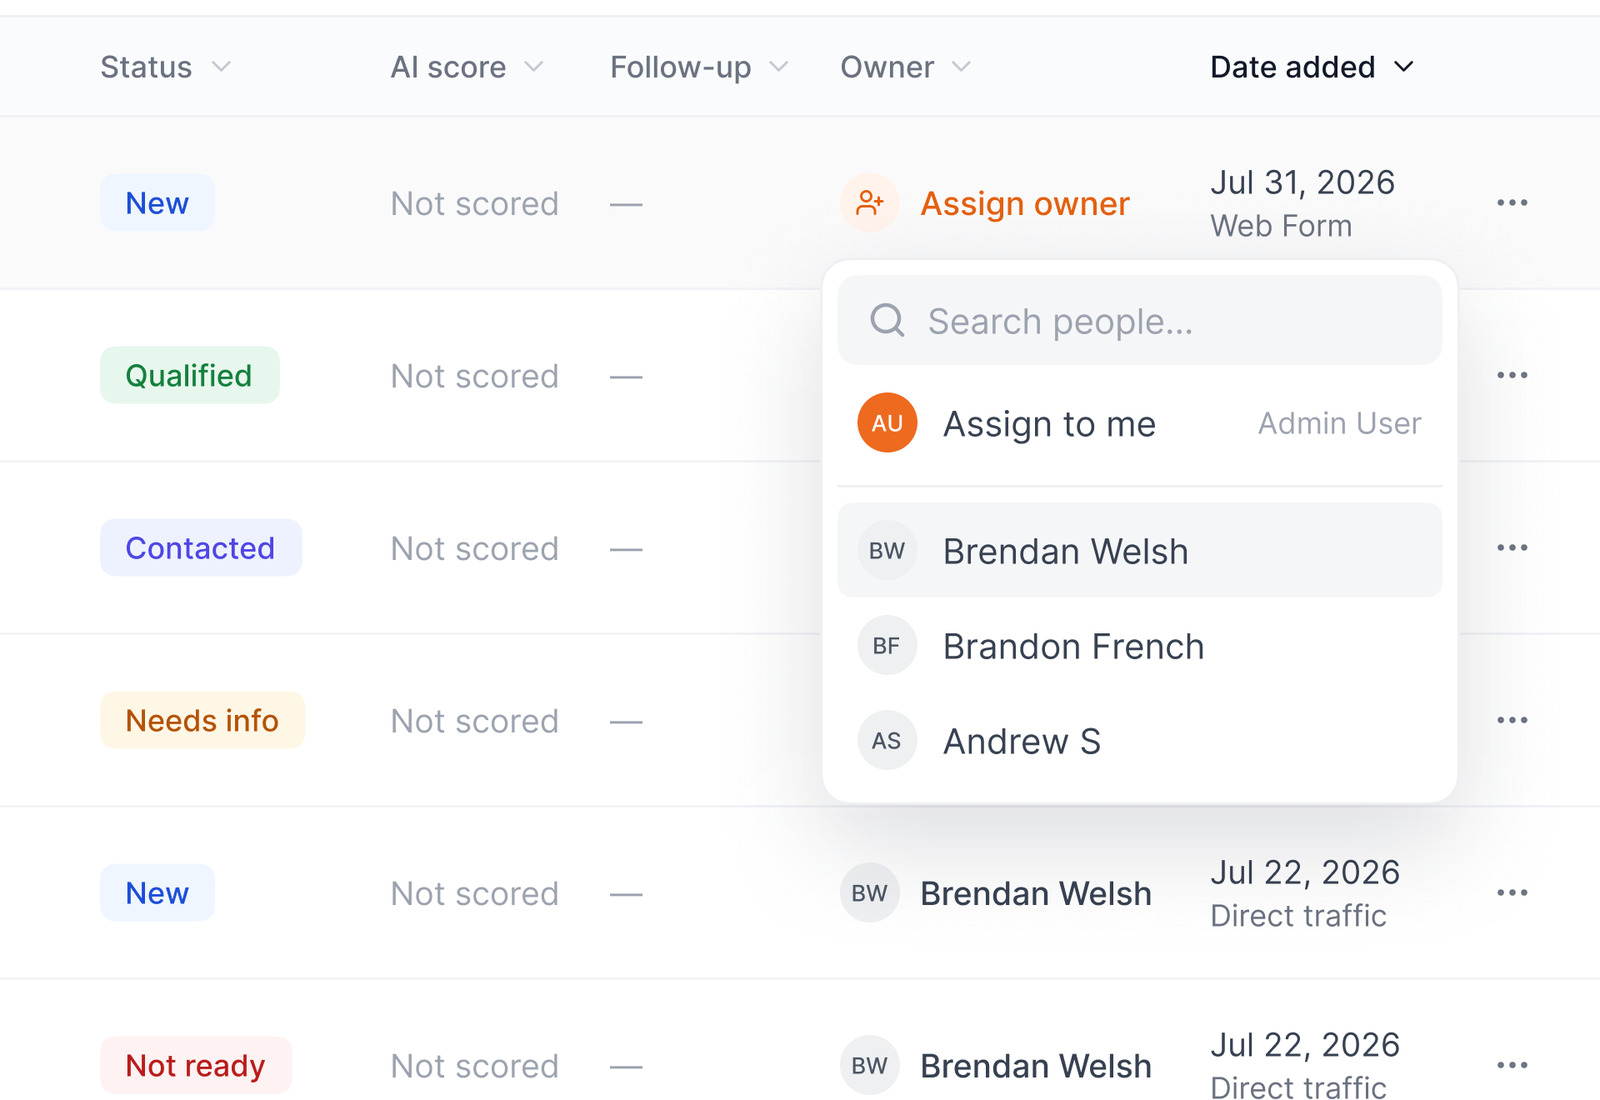
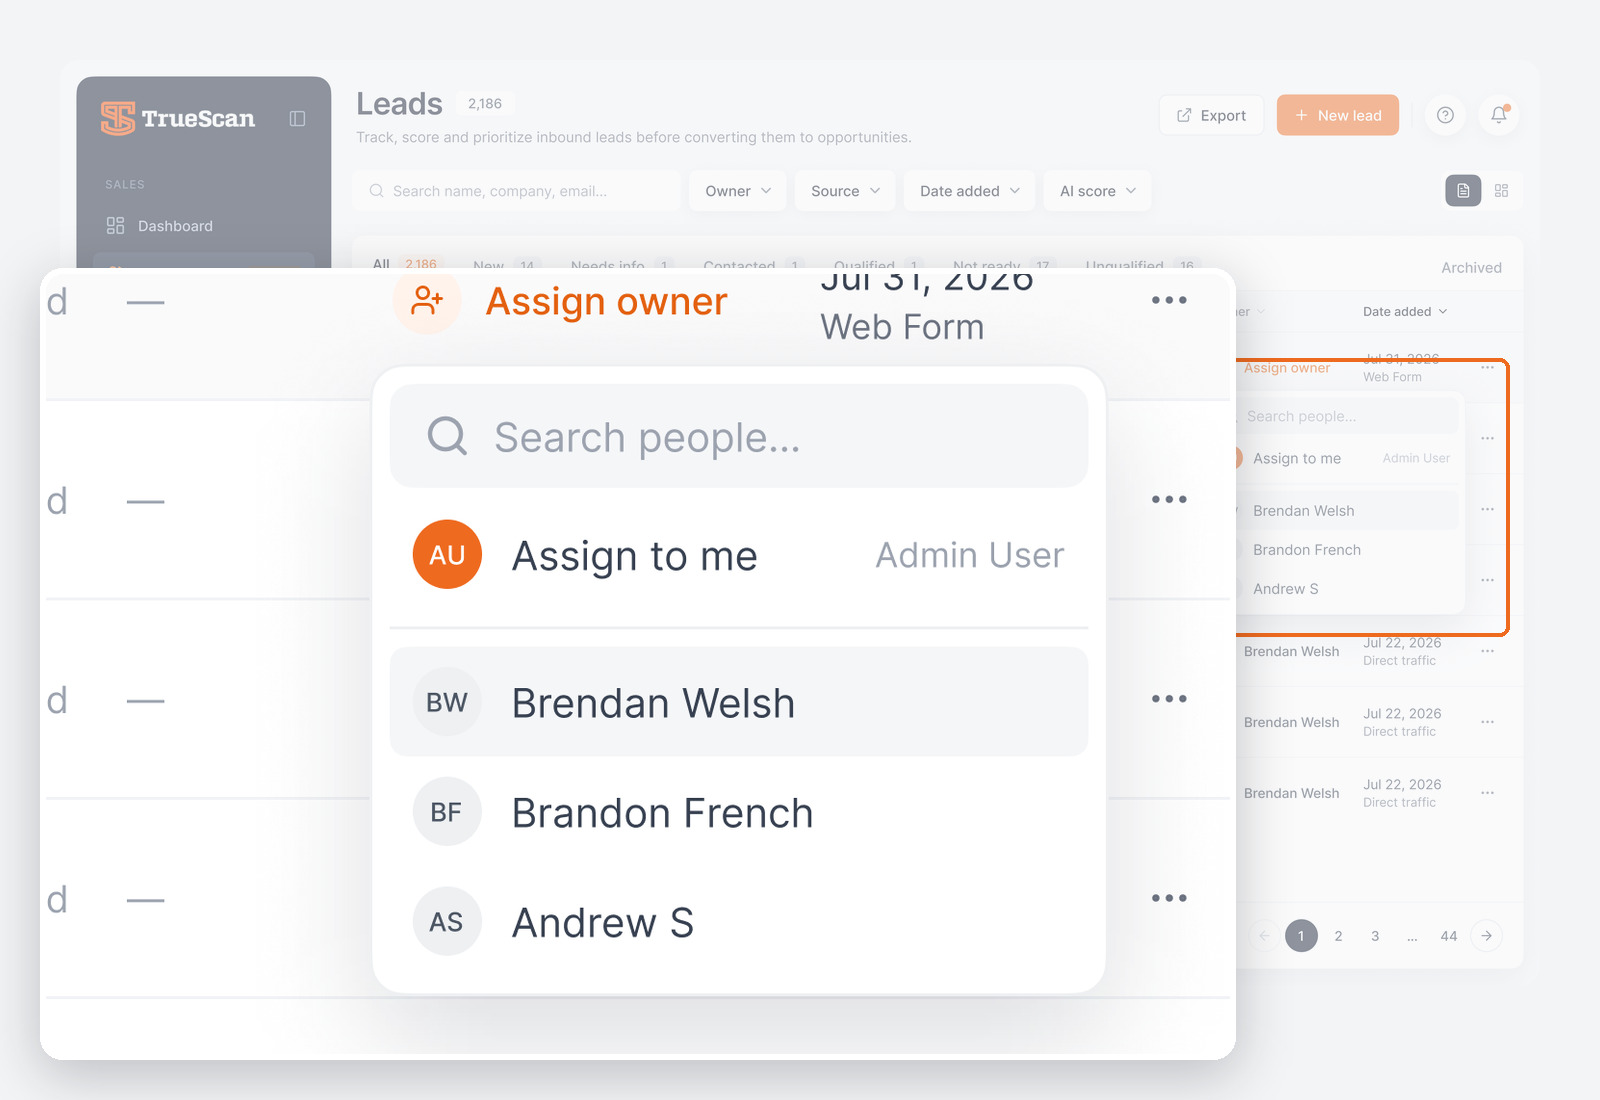
TrueScan: problems/details as text list + crisp isometric screen stacks; dark gradient on next-case cards
Claude-Session: https://claude.ai/code/session_019s9hMNDEcLkm54bZicL17g

diff --git a/cases/truescan.html b/cases/truescan.html
@@ -205,6 +205,11 @@ figure{margin:0}
 
 /* Five modules: больше воздуха, белая обводка, лёгкий тег */
 .mod{padding:28px clamp(28px,3.4vw,52px) 28px 28px!important;gap:clamp(32px,4vw,64px)!important}.mod:nth-child(even){padding:28px 28px 28px clamp(28px,3.4vw,52px)!important}.mod .media{box-shadow:0 0 0 4px #fff!important;border-radius:22px!important}.mtxt .ey{font-weight:500!important;font-size:14px!important;padding:6px 12px!important;border-radius:999px!important}.mtxt h3{font-weight:500!important}@media (max-width:900px){.mod,.mod:nth-child(even){padding:16px 16px 28px!important}}
+
+.isorow{display:grid;grid-template-columns:minmax(0,5fr) minmax(0,7fr);gap:clamp(24px,4vw,64px);align-items:center}.isolist{list-style:none;margin:0;padding:0;display:flex;flex-direction:column;gap:clamp(20px,2.2vw,30px)}.isolist li{padding-left:20px;border-left:2px solid #EE6A1F}.isolist h3{font-family:var(--font-display);font-weight:500;font-size:clamp(19px,1.6vw,22px);letter-spacing:-.015em;line-height:1.25}.isolist p{margin-top:6px;font-size:clamp(15px,1.1vw,16px);line-height:1.5;color:var(--ink-2)}.isovis{border-radius:28px;overflow:hidden;background:#F1F3F6}.isovis img{display:block;width:100%;height:auto}@media (max-width:900px){.isorow{grid-template-columns:1fr}.isovis{order:-1}}
+
+/* «следующий кейс»: тёмное затемнение снизу, светлый текст */
+.ncase .media::after{background:linear-gradient(to top,rgba(10,14,24,.82) 0%,rgba(10,14,24,.45) 30%,rgba(10,14,24,0) 60%)!important}.ncase .lbl small{color:rgba(255,255,255,.75)!important}.ncase .lbl b{color:#fff!important}
 </style>
 </head>
 <body>
@@ -292,12 +297,7 @@ figure{margin:0}
       <h2 class="h2 rv">Problems</h2>
       <p class="body rv">A scanning company sells, plans and bills complex field work. Every step had its own tool, or none.</p>
     </div>
-    <div class="pairs">
-      <div class="pair rv"><div class="media"><img src="../img/cases/truescan/problem-1-list.jpg?v=3" alt="Leads list with status tabs" loading="lazy"></div><div class="ptxt"><div><h3>Requests come from everywhere</h3><p>Web forms, direct traffic and each sales rep’s personal form. A lead needs an owner and a status fast, or it goes cold.</p></div></div></div>
-      <div class="pair rv"><div class="media"><img src="../img/cases/truescan/problem-2-proposal.jpg?v=3" alt="Proposal builder with 18 sections and service fees" loading="lazy"></div><div class="ptxt"><div><h3>Every deal needs a heavy proposal</h3><p>A reality-capture proposal has 18 sections: scope, services, team, equipment, terms and fees that depend on what is being scanned.</p></div></div></div>
-      <div class="pair rv"><div class="media"><img src="../img/cases/truescan/problem-3-project.jpg?v=3" alt="Project overview with site data, tasks and cost to date" loading="lazy"></div><div class="ptxt"><div><h3>Site work is scattered</h3><p>After a deal is won, the building data, the crew, the files and multi-gigabyte point clouds need one home.</p></div></div></div>
-      <div class="pair rv"><div class="media"><img src="../img/cases/truescan/problem-4-time.jpg?v=3" alt="Weekly timesheet with field scan entries" loading="lazy"></div><div class="ptxt"><div><h3>Costs live in a spreadsheet</h3><p>Field hours, per diem and mileage were logged in Google Sheets, so the real cost of a project was hard to see.</p></div></div></div>
-    </div>
+    <div class="isorow rv"><ul class="isolist"><li><h3>Requests come from everywhere</h3><p>Web forms, direct traffic and each sales rep’s personal form. A lead needs an owner and a status fast, or it goes cold.</p></li><li><h3>Every deal needs a heavy proposal</h3><p>A reality-capture proposal has 18 sections: scope, services, team, equipment, terms and fees that depend on what is being scanned.</p></li><li><h3>Site work is scattered</h3><p>After a deal is won, the building data, the crew, the files and multi-gigabyte point clouds need one home.</p></li><li><h3>Costs live in a spreadsheet</h3><p>Field hours, per diem and mileage were logged in Google Sheets, so the real cost of a project was hard to see.</p></li></ul><div class="isovis"><img src="../img/cases/truescan/problems-iso.jpg?v=3" alt="Isometric stack of TrueScan screens: leads list, proposal builder and weekly timesheet" loading="lazy"></div></div>
   </div>
 </section>
 
@@ -322,12 +322,7 @@ figure{margin:0}
       <h2 class="h2 rv">Details that matter</h2>
       <p class="body rv">Small decisions that save clicks every day: show consequences before they happen, apply small changes instantly, always leave a way back.</p>
     </div>
-    <div class="pairs">
-      <div class="pair rv"><div class="media"><img src="../img/cases/truescan/solution-1-convert.jpg?v=3" alt="Convert to opportunity confirmation with record preview" loading="lazy"></div><div class="ptxt"><div><h3>Preview before converting</h3><p>Conversion shows exactly what will be created — a new or existing account, a contact and an opportunity in Prospecting — with no fields to fill in.</p></div></div></div>
-      <div class="pair rv"><div class="media"><img src="../img/cases/truescan/solution-2-converted.jpg?v=3" alt="Opportunity profile with Converted from lead banner" loading="lazy"></div><div class="ptxt"><div><h3>Land on the result</h3><p>After conversion the user lands on the new opportunity, with a one-time “Converted from lead” banner and a link back to the lead.</p></div></div></div>
-      <div class="pair rv"><div class="media"><img src="../img/cases/truescan/solution-3-assign.jpg?v=3" alt="Assign owner popover with Assign to me" loading="lazy"></div><div class="ptxt"><div><h3>Small changes apply instantly</h3><p>Small changes apply instantly: assigning an owner or changing a status needs no Apply button, and archiving comes with an 8-second Undo.</p></div></div></div>
-      <div class="pair rv"><div class="media"><img src="../img/cases/truescan/solution-4-wizard.jpg?v=3" alt="New lead wizard with address autocomplete" loading="lazy"></div><div class="ptxt"><div><h3>Guided entry</h3><p>A 3-step wizard validates one step at a time, checks duplicate emails when leaving the field and fills the address from a suggestion.</p></div></div></div>
-    </div>
+    <div class="isorow rv"><ul class="isolist"><li><h3>Preview before converting</h3><p>Conversion shows exactly what will be created — a new or existing account, a contact and an opportunity in Prospecting — with no fields to fill in.</p></li><li><h3>Land on the result</h3><p>After conversion the user lands on the new opportunity, with a one-time “Converted from lead” banner and a link back to the lead.</p></li><li><h3>Small changes apply instantly</h3><p>Small changes apply instantly: assigning an owner or changing a status needs no Apply button, and archiving comes with an 8-second Undo.</p></li><li><h3>Guided entry</h3><p>A 3-step wizard validates one step at a time, checks duplicate emails when leaving the field and fills the address from a suggestion.</p></li></ul><div class="isovis"><img src="../img/cases/truescan/details-iso.jpg?v=3" alt="Isometric stack: convert to opportunity, the new opportunity and the new lead wizard" loading="lazy"></div></div>
   </div>
 </section>
 

diff --git a/cases/bookkeeper-ai.html b/cases/bookkeeper-ai.html
@@ -196,6 +196,9 @@ figure{margin:0}
 @media (max-width:980px){.screens{grid-template-columns:1fr}.screens .media.span{grid-column:auto}}
 
 .kpi b{white-space:nowrap;font-size:clamp(40px,4.4vw,64px)!important}
+
+/* «следующий кейс»: тёмное затемнение снизу, светлый текст */
+.ncase .media::after{background:linear-gradient(to top,rgba(10,14,24,.82) 0%,rgba(10,14,24,.45) 30%,rgba(10,14,24,0) 60%)!important}.ncase .lbl small{color:rgba(255,255,255,.75)!important}.ncase .lbl b{color:#fff!important}
 </style>
 </head>
 <body>

diff --git a/cases/stulo.html b/cases/stulo.html
@@ -196,6 +196,9 @@ figure{margin:0}
 @media (max-width:980px){.screens{grid-template-columns:1fr}.screens .media.span{grid-column:auto}}
 
 .kpi b{white-space:nowrap;font-size:clamp(40px,4.4vw,64px)!important}
+
+/* «следующий кейс»: тёмное затемнение снизу, светлый текст */
+.ncase .media::after{background:linear-gradient(to top,rgba(10,14,24,.82) 0%,rgba(10,14,24,.45) 30%,rgba(10,14,24,0) 60%)!important}.ncase .lbl small{color:rgba(255,255,255,.75)!important}.ncase .lbl b{color:#fff!important}
 </style>
 </head>
 <body>

diff --git a/cases/tournament-guru.html b/cases/tournament-guru.html
@@ -196,6 +196,9 @@ figure{margin:0}
 @media (max-width:980px){.screens{grid-template-columns:1fr}.screens .media.span{grid-column:auto}}
 
 .kpi b{white-space:nowrap;font-size:clamp(40px,4.4vw,64px)!important}
+
+/* «следующий кейс»: тёмное затемнение снизу, светлый текст */
+.ncase .media::after{background:linear-gradient(to top,rgba(10,14,24,.82) 0%,rgba(10,14,24,.45) 30%,rgba(10,14,24,0) 60%)!important}.ncase .lbl small{color:rgba(255,255,255,.75)!important}.ncase .lbl b{color:#fff!important}
 </style>
 </head>
 <body>

diff --git a/cases/uncloud.html b/cases/uncloud.html
@@ -210,6 +210,9 @@ figure{margin:0}
 .step .n{color:#00838A!important}
 
 .kpi b{white-space:nowrap;font-size:clamp(40px,4.4vw,64px)!important}
+
+/* «следующий кейс»: тёмное затемнение снизу, светлый текст */
+.ncase .media::after{background:linear-gradient(to top,rgba(10,14,24,.82) 0%,rgba(10,14,24,.45) 30%,rgba(10,14,24,0) 60%)!important}.ncase .lbl small{color:rgba(255,255,255,.75)!important}.ncase .lbl b{color:#fff!important}
 </style>
 </head>
 <body>

diff --git a/cases/case-template.html b/cases/case-template.html
@@ -203,6 +203,9 @@ figure{margin:0}
 }
 
 .kpi b{white-space:nowrap;font-size:clamp(40px,4.4vw,64px)!important}
+
+/* «следующий кейс»: тёмное затемнение снизу, светлый текст */
+.ncase .media::after{background:linear-gradient(to top,rgba(10,14,24,.82) 0%,rgba(10,14,24,.45) 30%,rgba(10,14,24,0) 60%)!important}.ncase .lbl small{color:rgba(255,255,255,.75)!important}.ncase .lbl b{color:#fff!important}
 </style>
 </head>
 <body>

diff --git a/cases/_tools/focus_tiles.py b/cases/_tools/focus_tiles.py
@@ -1,0 +1,64 @@
+# Плитки «экран целиком + увеличенный фрагмент»: весь экран как контекст (приглушён),
+# рамка на нужной области и тот же фрагмент крупно поверх. Ничего не обрезано по краям карточки.
+# Запуск из корня: python3 cases/_tools/focus_tiles.py
+import os, sys
+sys.path.insert(0, os.path.dirname(__file__))
+from PIL import Image, ImageDraw, ImageFilter
+import flat as F
+
+S, O = 'cases/_src/truescan', 'img/cases/truescan'
+W, H = 1600, 1100
+ACC = (238, 106, 31)
+
+
+def rr_mask(size, r):
+    m = Image.new('L', size, 0); ImageDraw.Draw(m).rounded_rectangle((0, 0, size[0] - 1, size[1] - 1), r, fill=255); return m
+
+
+def tile(src, s, box, out, anchor='br'):
+    full = Image.open(src).convert('RGB')
+    scr = full.crop((0, 0, 1440 * s, 900 * s))
+    cv = Image.new('RGB', (W, H), (243, 244, 246))
+    # контекст: весь экран по ширине карточки, приглушён
+    k = (W - 120) / scr.width
+    bg = scr.resize((W - 120, round(scr.height * k)), Image.LANCZOS)
+    veil = Image.new('RGB', bg.size, (246, 247, 249))
+    bg = Image.blend(bg, veil, 0.55)
+    bx, by = 60, 60
+    cv.paste(bg, (bx, by), rr_mask(bg.size, 18))
+    # рамка на области фрагмента
+    x0, y0, x1, y1 = box
+    d = ImageDraw.Draw(cv)
+    d.rounded_rectangle((bx + x0 * k * s, by + y0 * k * s, bx + x1 * k * s, by + y1 * k * s), 10, outline=ACC, width=4)
+    # фрагмент крупно
+    crop = full.crop((x0 * s, y0 * s, x1 * s, y1 * s))
+    maxw, maxh = W * 0.74, H * 0.72
+    z = min(maxw / crop.width, maxh / crop.height)
+    crop = crop.resize((round(crop.width * z), round(crop.height * z)), Image.LANCZOS)
+    pad = 6
+    card = Image.new('RGBA', (crop.width + pad * 2, crop.height + pad * 2), (0, 0, 0, 0))
+    card.paste(Image.new('RGB', card.size, (255, 255, 255)), (0, 0), rr_mask(card.size, 22))
+    card.paste(crop, (pad, pad), rr_mask(crop.size, 17))
+    cx = W - card.width - 40 if 'r' in anchor else 40
+    cy = H - card.height - 40 if 'b' in anchor else 40
+    sh = Image.new('RGBA', (card.width + 160, card.height + 160), (0, 0, 0, 0))
+    ImageDraw.Draw(sh).rounded_rectangle((80, 80, 80 + card.width, 80 + card.height), 22, fill=(16, 24, 40, 60))
+    sh = sh.filter(ImageFilter.GaussianBlur(26))
+    base = cv.convert('RGBA'); base.alpha_composite(sh, (cx - 80, cy - 80 + 14)); base.alpha_composite(card, (cx, cy))
+    F.save(base, f'{O}/{out}.jpg')
+
+
+X3 = f'{S}/x3'
+T = [
+    ('problem-1-list', f'{X3}/lead_table.png', 3, (284, 90, 1000, 380), 'br'),
+    ('problem-2-proposal', f'{S}/proposal_builder.png', 2, (100, 70, 760, 500), 'br'),
+    ('problem-3-project', f'{S}/project_overview.png', 2, (284, 16, 1000, 400), 'br'),
+    ('problem-4-time', f'{S}/timesheet.png', 2, (284, 60, 1000, 460), 'br'),
+    ('solution-1-convert', f'{X3}/convert.png', 3, (460, 213, 980, 687), 'br'),
+    ('solution-2-converted', f'{X3}/opp_profile.png', 3, (284, 16, 1000, 400), 'br'),
+    ('solution-3-assign', f'{X3}/assign.png', 3, (1000, 290, 1410, 560), 'bl'),
+    ('solution-4-wizard', f'{X3}/wiz2.png', 3, (400, 157, 1040, 743), 'br'),
+]
+for out, src, s, box, a in T:
+    tile(src, s, box, out, a)
+print('ok')

diff --git a/cases/_tools/iso_pair.py b/cases/_tools/iso_pair.py
@@ -1,0 +1,41 @@
+# Изометрические стопки экранов для блоков Problems / Details that matter (TrueScan).
+# Рендер в Chromium с deviceScaleFactor 3 из экспортов Figma 2x/3x — экраны остаются резкими.
+# Запуск из корня: CHROME_PATH=/opt/pw-browsers/chromium python3 cases/_tools/iso_pair.py
+import os
+from PIL import Image
+from playwright.sync_api import sync_playwright
+
+S, O = 'cases/_src/truescan', 'img/cases/truescan'
+TMP = os.path.abspath('cases/_src/_covers'); os.makedirs(TMP, exist_ok=True)
+
+
+def scr(src, name, s):
+    im = Image.open(src).convert('RGB'); im.crop((0, 0, 1440 * s, 900 * s)).save(f'{TMP}/{name}.png')
+    return 'file://' + f'{TMP}/{name}.png'
+
+
+def iso(out, shots, W=900, H=760):
+    sw = 640; sh = round(sw * 900 / 1440)
+    layers = ''.join(
+        f'<div class="s" style="transform:translate3d({i*40}px,{i*-150}px,{i*40}px)"><img src="{u}"></div>'
+        for i, u in enumerate(shots))
+    html = f'''<html><head><style>
+*{{margin:0;padding:0;box-sizing:border-box}} html,body{{width:{W}px;height:{H}px;overflow:hidden}}
+body{{background:linear-gradient(160deg,#F6F7F9,#ECEFF3)}}
+.stage{{position:absolute;left:50%;top:64%;transform-style:preserve-3d;transform:rotateX(50deg) rotateZ(-32deg)}}
+.s{{position:absolute;width:{sw}px;height:{sh}px;left:{-sw/2}px;top:{-sh/2}px;border-radius:14px;overflow:hidden;background:#fff;
+   box-shadow:0 0 0 1px rgba(16,24,40,.08),0 40px 60px -24px rgba(16,24,40,.28)}}
+.s img{{display:block;width:100%;height:100%}}
+</style></head><body><div class="stage">{layers}</div></body></html>'''
+    p = f'{TMP}/iso.html'; open(p, 'w').write(html)
+    with sync_playwright() as pw:
+        b = pw.chromium.launch(executable_path=os.environ.get('CHROME_PATH') or None)
+        pg = b.new_page(viewport={'width': W, 'height': H}, device_scale_factor=3)
+        pg.goto('file://' + p); pg.wait_for_timeout(400); pg.screenshot(path=f'{TMP}/iso.png'); b.close()
+    Image.open(f'{TMP}/iso.png').convert('RGB').save(out, quality=93, subsampling=0, optimize=True, progressive=True)
+
+
+X3 = f'{S}/x3'
+iso(f'{O}/problems-iso.jpg', [scr(f'{S}/timesheet.png', 'p3', 2), scr(f'{S}/proposal_builder.png', 'p2', 2), scr(f'{X3}/lead_table.png', 'p1', 3)])
+iso(f'{O}/details-iso.jpg', [scr(f'{X3}/wiz2.png', 'd3', 3), scr(f'{X3}/opp_profile.png', 'd2', 3), scr(f'{X3}/convert.png', 'd1', 3)])
+print('ok')
